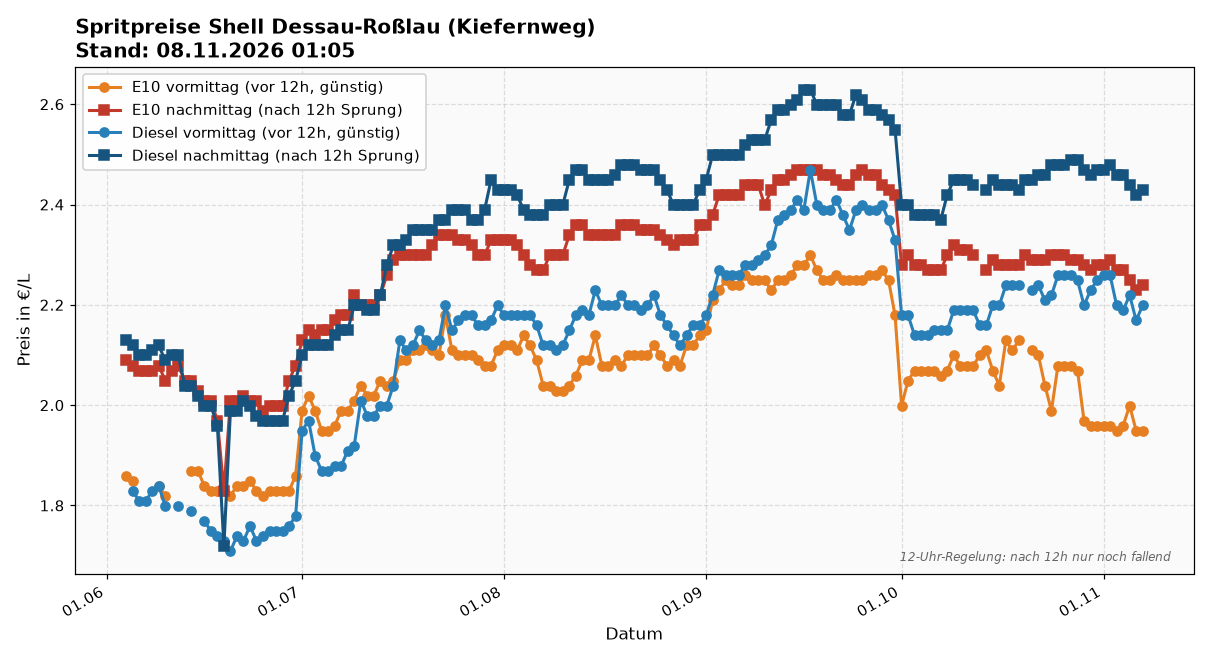
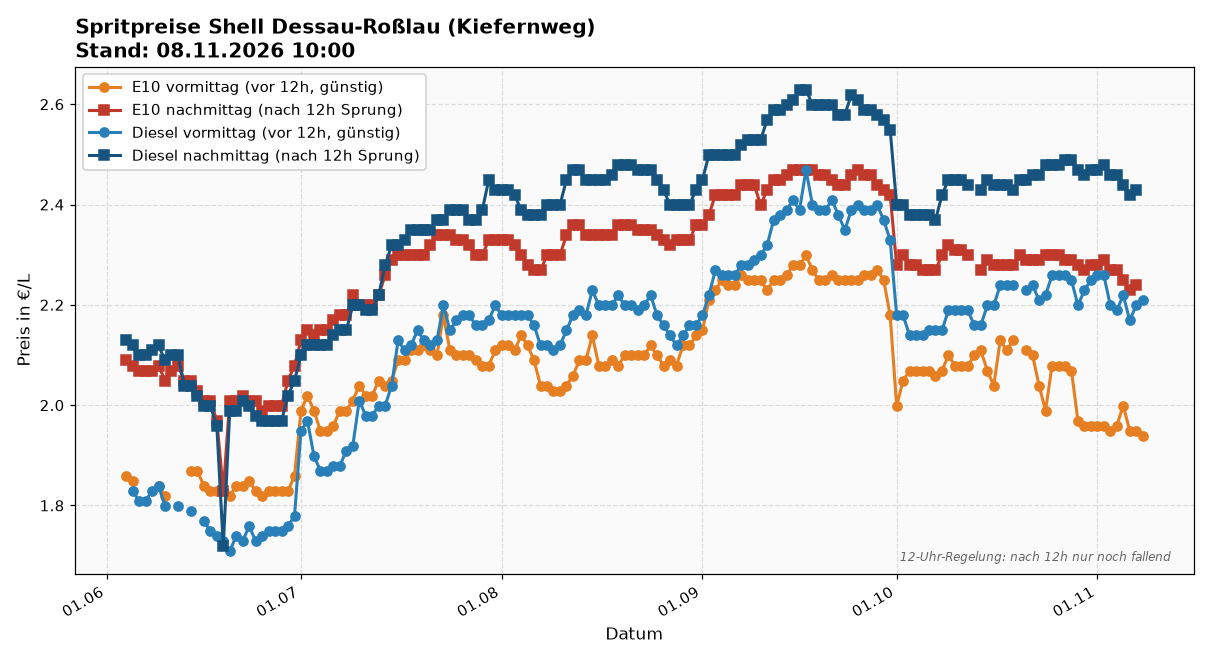
update: spritpreise 2026-11-08 10:00

diff --git a/index.html b/index.html
@@ -19,17 +19,17 @@
 </head>
 <body>
 <h1>🛢 Spritpreise Shell Dessau-Roßlau (Kiefernweg)</h1>
-<div class="sub">Source: Tankerkönig · Stand: 08.11.2026 01:05</div>
+<div class="sub">Source: Tankerkönig · Stand: 08.11.2026 10:00</div>
 
 <img src="latest.png" alt="Preisverlauf">
 
 <div class="latest">
   <strong>Heute (2026-11-08)</strong>
-  <div style="color:#888;font-style:italic;margin-bottom:0.5em;">Noch keine Messung heute — cron läuft 09:00 + 12:10.</div>
+  
   <table>
-    <tr><td>E10 vormittag</td><td class="price">— €</td></tr>
+    <tr><td>E10 vormittag</td><td class="price">1.939 €</td></tr>
     <tr><td>E10 nachmittag</td><td class="price">— €</td></tr>
-    <tr><td>Diesel vormittag</td><td class="price">— €</td></tr>
+    <tr><td>Diesel vormittag</td><td class="price">2.209 €</td></tr>
     <tr><td>Diesel nachmittag</td><td class="price">— €</td></tr>
   </table>
 </div>
